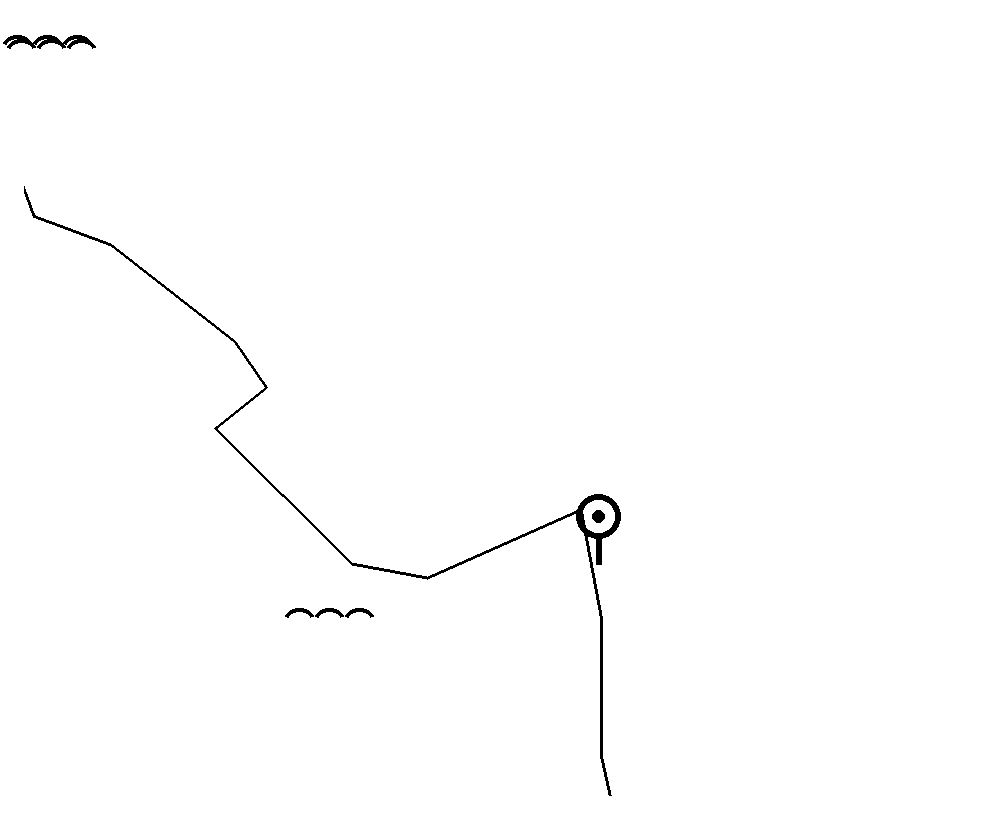
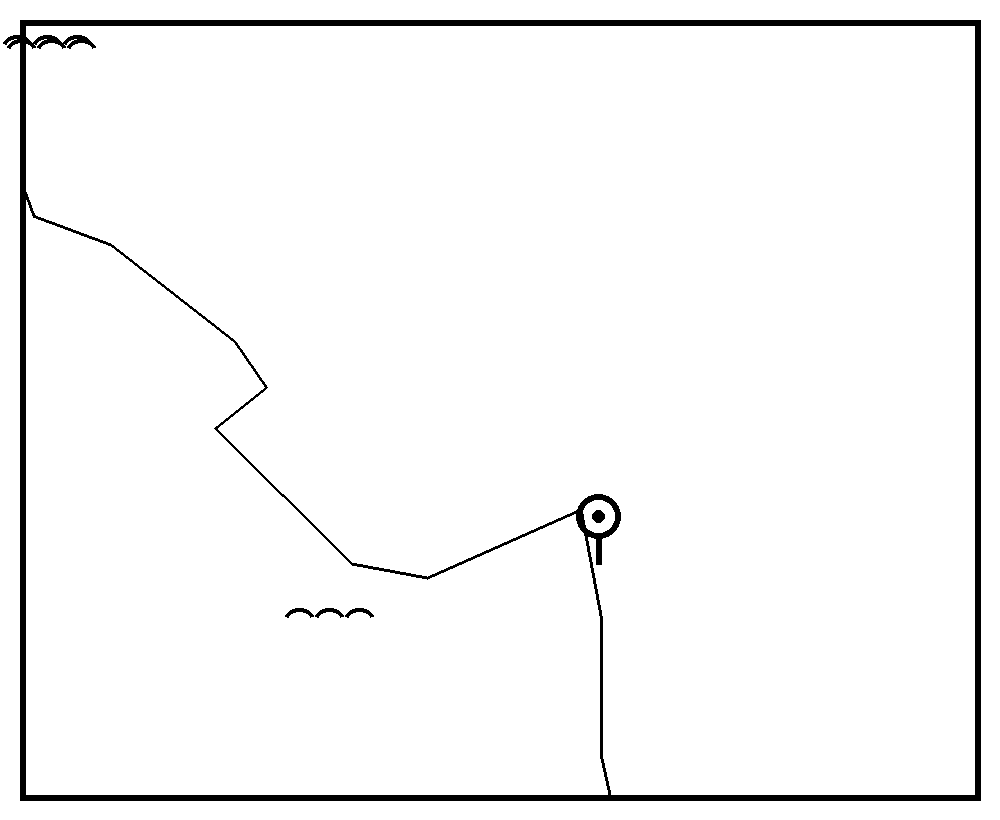
histoire-du-sel: no closing pull-back, zoom in on the last goat; Gujarat close-up as a framed inset with the march's start
Claude-Session: https://claude.ai/code/session_0111fVE69YejjUpxxqFZnbwR

Changed region(s): [[0.0, 0.0, 0.992, 0.9756]]

diff --git a/videos/histoire-du-sel/tools/make_maps.py b/videos/histoire-du-sel/tools/make_maps.py
@@ -99,7 +99,7 @@ def country_map(path, iso, pin, Wd=1300, Hd=900, pad=60, min_ring=8, extra=(), l
     print(path)
 
 
-def region_map(path, continent, box, pins, Wd=1400, Hd=1000, pad=40, waves=()):
+def region_map(path, continent, box, pins, Wd=1400, Hd=1000, pad=40, waves=(), frame=False):
     """The coastline of a continent inside a lon/lat box (no inner borders: the countries are
     filled together and only the outer edge is kept), with pen pins at `pins`."""
     import numpy as np
@@ -120,8 +120,12 @@ def region_map(path, continent, box, pins, Wd=1400, Hd=1000, pad=40, waves=()):
                 dm.polygon([P(x, y) for x, y in ring], fill=0 if j else 255)
     a = np.asarray(m) > 0
     edge = a ^ ndimage.binary_erosion(a, iterations=3)
-    edge[:pad // 2 + 4, :] = edge[-pad // 2 - 4:, :] = False          # the box's own edge is not a coast
-    edge[:, :pad // 2 + 4] = edge[:, -pad // 2 - 4:] = False
+    if not frame:
+        edge[:pad // 2 + 4, :] = edge[-pad // 2 - 4:, :] = False      # the box's own edge is not a coast
+        edge[:, :pad // 2 + 4] = edge[:, -pad // 2 - 4:] = False
+    else:
+        edge[:pad // 2 + 3, :] = edge[-pad // 2 - 3:, :] = False
+        edge[:, :pad // 2 + 3] = edge[:, -pad // 2 - 3:] = False
     im = Image.fromarray(np.where(edge, 0, 255).astype(np.uint8)).convert('RGB')
     d = ImageDraw.Draw(im)
     out = []
@@ -134,6 +138,9 @@ def region_map(path, continent, box, pins, Wd=1400, Hd=1000, pad=40, waves=()):
         d.ellipse((px - 22, py - 70, px + 22, py - 26), outline='black', width=6)
         d.ellipse((px - 6, py - 54, px + 6, py - 42), fill='black')
         d.line((px, py - 26, px, py), fill='black', width=6)
+    if frame:                                                 # an inset frame closes the cut-off land
+        im_a = np.asarray(im.convert('L')) < 128
+        d.rectangle((pad // 2, pad // 2, Wd - pad // 2, Hd - pad // 2), outline='black', width=6)
     if waves:
         for wx, wy in waves:
             px, py = P(wx, wy)
@@ -155,7 +162,7 @@ if __name__ == '__main__':
     country_map(os.path.join(PROJ, 'assets', 'M07.png'), 'FRA', (2.37, 48.85), Wd=1000, Hd=1000, lon_min=-10)   # Paris
     region_map(os.path.join(PROJ, 'assets', 'M08.png'), 'Asia', (67.5, 75.5, 19.0, 25.5),        # Gujarat, close up
                [(72.80, 20.89), (72.58, 23.06, False)], Wd=1000, Hd=820,
-               waves=[(70.2, 20.4), (71.2, 19.6), (69.0, 21.6)])                         # Dandi, from Ahmedabad
+               waves=[(70.2, 20.4), (71.2, 19.6), (69.0, 21.6)], frame=True)                         # Dandi, from Ahmedabad
     region_map(os.path.join(PROJ, 'assets', 'M09.png'), ('North America', 'Europe'), (-130, 35, 15, 70),
                [(-95, 40), (8, 49)], Wd=1500, Hd=820)                              # North America, Europe
     curves(os.path.join(PROJ, 'assets', 'C01.png'))

diff --git a/videos/histoire-du-sel/act5.py b/videos/histoire-du-sel/act5.py
@@ -44,15 +44,17 @@ ENTRIES = [
     E('M09', 'Amérique du Nord et Europe', arrive(13, 'trone'), focus=(0.5, 0.5)),
     E('G31', 'la chèvre et la salière', T_LAST + 4.2, focus=(0.5, 0.5), max_dur=3.0),     # home: under the first goats
 ]
-END_VIEW = BD.final_view()
-END_VIEW.arrive = None
 MARKS = []
 BEFORE = act1.ENTRIES + act2.ENTRIES + act3.ENTRIES + act4.ENTRIES
 BEFORE_MARKS = act1.MARKS + act2.MARKS + act3.MARKS + act4.MARKS
-ENTRIES.append(END_VIEW)
-# the final view comes after the last goat is drawn and held a moment
-END_VIEW.arrive = ENTRIES[-2].arrive + 3.0 + 1.0 + 4.0
-END = END_VIEW.arrive + 5.0
+# the ending (the user's choice): no pull-back over the board; once the last goat is drawn, the
+# camera moves in on it, the goat and the salt shaker, and holds
+_gx, _gy = BD.world('G31')
+_gw, _gh = 1500 * BD.SIZE.get('G31', 1.0) * BD.SCALE, 880 * BD.SIZE.get('G31', 1.0) * BD.SCALE
+CLOSE = E('CLOSE', 'gros plan sur la chèvre', ENTRIES[-1].arrive + 3.6, look=True,
+          at=(_gx - 0.12 * _gw, _gy + 0.12 * _gh), zoom=1.45)
+ENTRIES.append(CLOSE)
+END = CLOSE.arrive + 3.5
 BOARD = BD.Board(ENTRIES, before=BEFORE, end=END, marks=MARKS, before_marks=BEFORE_MARKS)
 G = {e.code: e for e in ENTRIES}
 DONE = {c: e.start + e.dur + 0.15 for c, e in G.items()}

diff --git a/videos/histoire-du-sel/act4.py b/videos/histoire-du-sel/act4.py
@@ -95,8 +95,9 @@ G['M08'].arrive = t + BD.START_EARLY
 G['M08'].start = t
 G['M08'].dur = 1.5
 (gx, gy), (ax, ay) = GUJ
-G['M08'].extras.append(dashed([(ax, ay), ((ax + gx) / 2 - 0.02, (ay + gy) / 2), (gx, gy - 0.05)], t + 1.65, dur=0.9))
-G['M08'].extras.append(BD.write('Dandi', 64, gx + 0.04, gy + 0.03, t + 2.65, frac=True, anchor='l'))
+G['M08'].extras.append(ring(ax, ay, 12, t + 1.6, dur=0.3))                                   # the start, inland
+G['M08'].extras.append(dashed([(ax, ay + 0.03), ((ax + gx) / 2 - 0.03, (ay + gy) / 2), (gx, gy - 0.07)], t + 1.95, dur=0.9))
+G['M08'].extras.append(BD.write('Dandi', 64, gx + 0.04, gy + 0.03, t + 2.95, frac=True, anchor='l'))
 
 SHOTS = [(0.0, BOARD.scene)]
 
